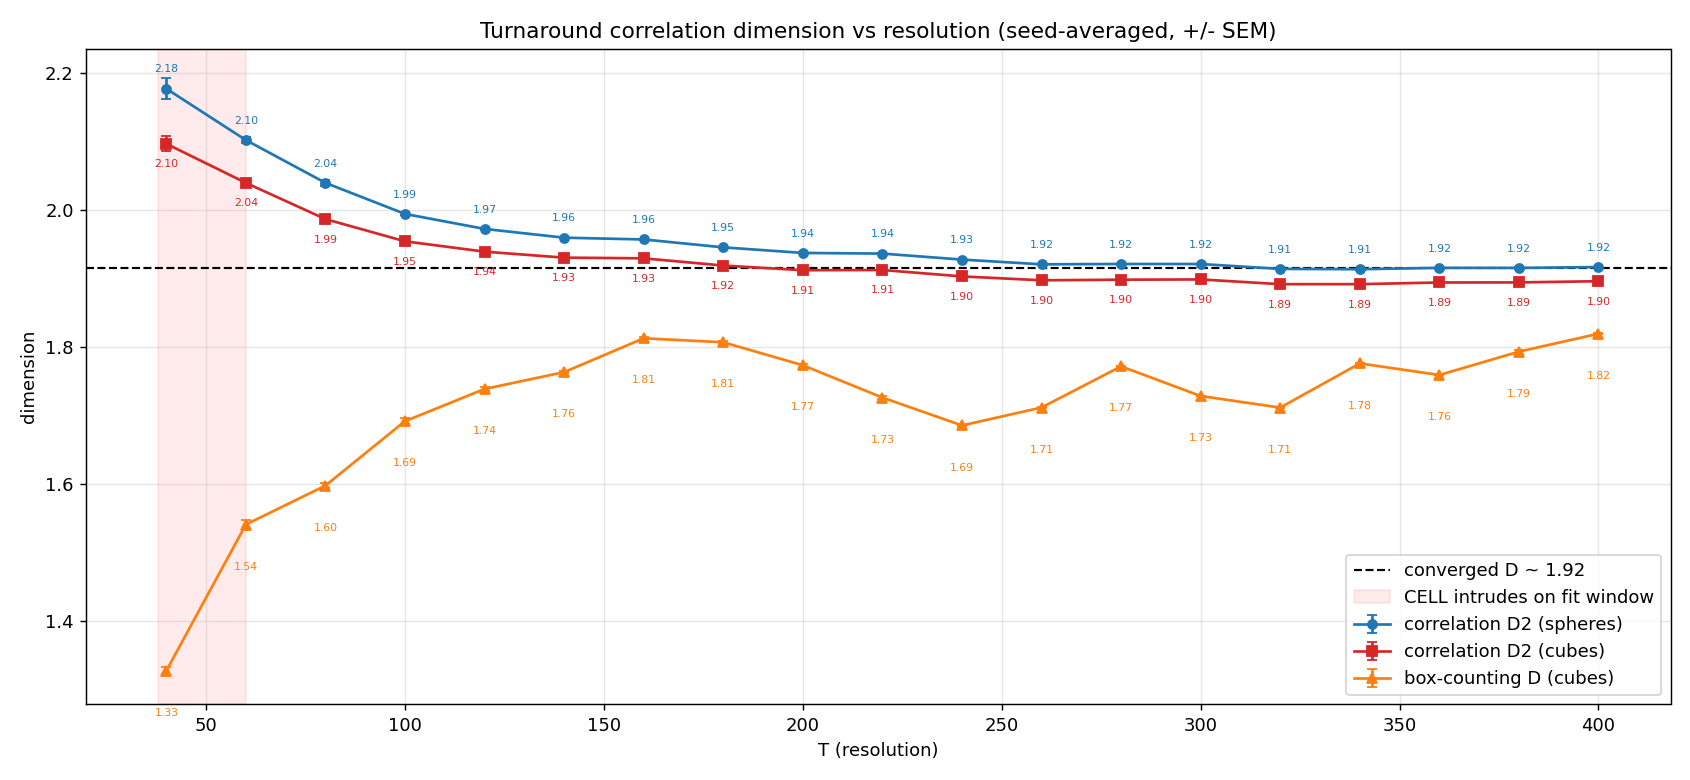
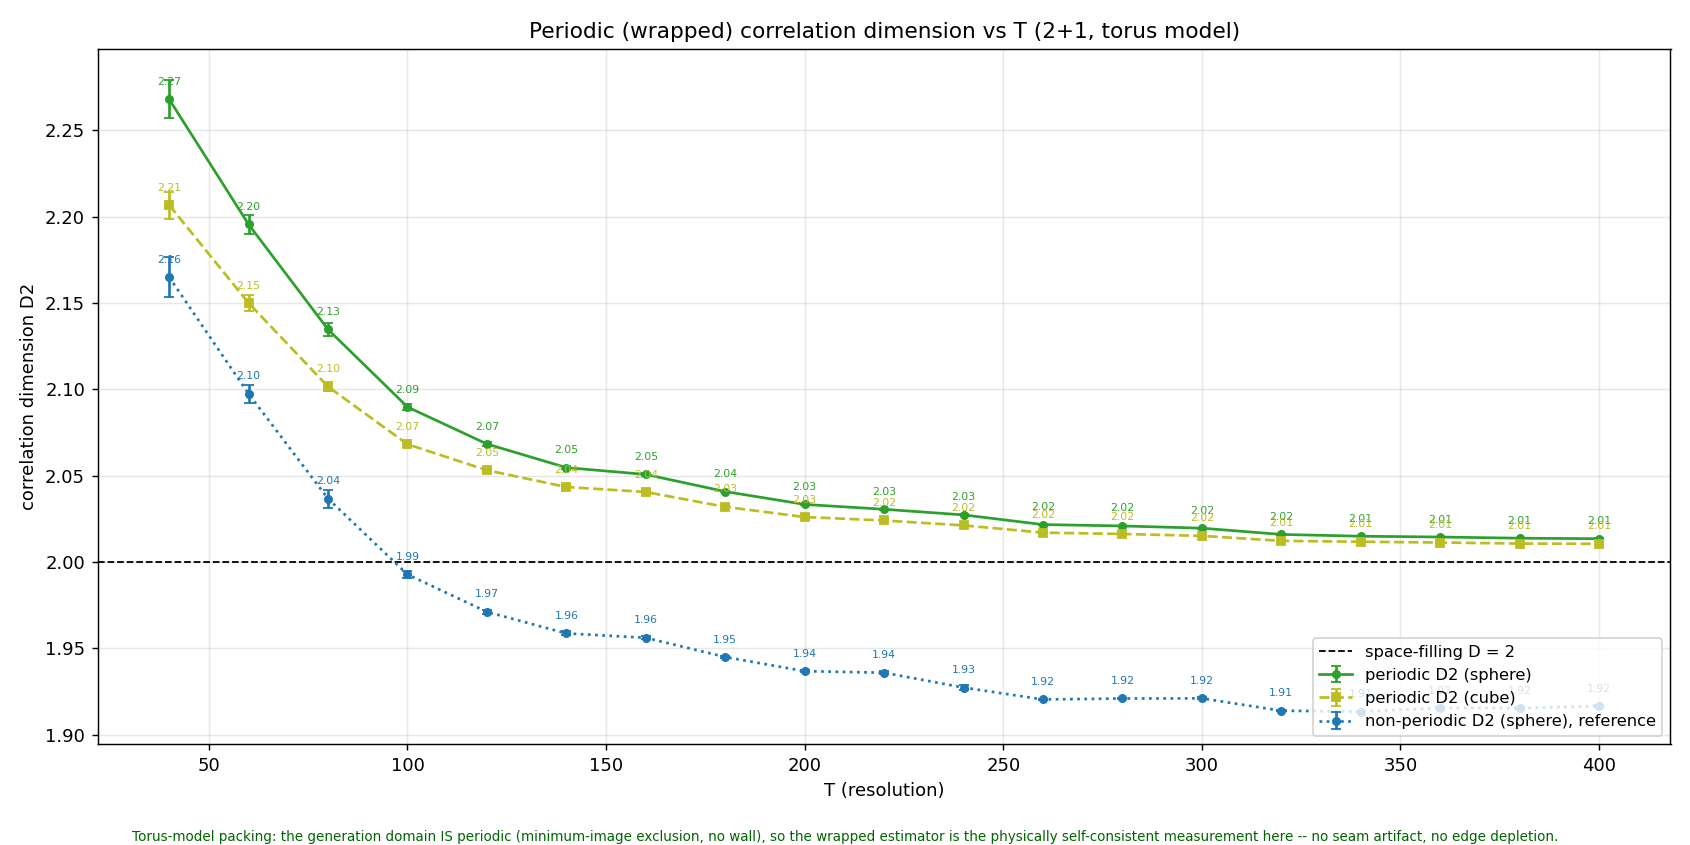
Lab notes: 3+1 phase results; correct the D2 entry to the wrapped estimator
3+1 entry: count exponent 2.273/2.331 (vs 2.282/2.328 no-phase), jam
prefactor +6.9% at T=200, wrapped D2 3.019/3.010 -- homogeneity
survives phases. The earlier D2 paragraph mislabelled the braidlab
report's non-periodic numbers (1.91x) as wrapped; entry now presents
them as the boundary artifact and adds the true wrapped measurement
(2.03 both variants), with figures regenerated from
analyze_periodic_corrdim.

diff --git a/docs/lab-notes/2026-07-05/index.html b/docs/lab-notes/2026-07-05/index.html
@@ -79,10 +79,11 @@
     </article>
 
     <article class="entry" id="corrdim-variant-mixing">
-      <h2>Corrdim was averaging variants together; corrected D2 is phase-blind</h2>
+      <h2>Corrdim was averaging variants together; the wrapped D2 is space-filling and phase-blind</h2>
       <p class="meta">
-        Bug fix in the report path &middot; code
-        <a href="https://github.com/universe-analysis/universe-generator/commit/3b39dd2"><code>3b39dd2</code></a>
+        Bug fix in the report path + wrapped estimator generalised &middot; code
+        <a href="https://github.com/universe-analysis/universe-generator/commit/3b39dd2"><code>3b39dd2</code></a>,
+        <a href="https://github.com/universe-analysis/universe-generator/commit/bad6d88"><code>bad6d88</code></a>
       </p>
       <p>
         Caught because three different datasets returned <em>identical</em>
@@ -99,31 +100,97 @@
         landed sibling variants beside them.
       </p>
       <p>
-        With per-variant filtering, the wrapped (minimum-image) correlation
-        dimension of the turnaround slice, seed-averaged over the high-T tail:
-        <strong>1.915</strong> with phases, <strong>1.916</strong> without
-        (1e-6), and the 07-02 torus 1e-7 dataset reads <strong>1.913</strong>
-        under the same tooling &mdash; identical within error. Whatever the
-        phases rearrange along the loop, the equal-time slice geometry at the
-        turnaround does not see it.
+        A second catch followed: the <code>braidlab corrdim</code> report uses
+        the <em>non-periodic</em> estimator (unwrapped positions, open-boundary
+        distances). Its per-variant numbers &mdash; 1.915 with phases, 1.916
+        without, 1.913 for the 07-02 1e-7 set &mdash; are phase-blind but they
+        are the boundary artifact, the 2+1 sibling of the ~2.89 the 07-02 notes
+        flagged in 3+1. The physical measurement is the wrapped (minimum-image)
+        estimator, so <code>analyze_periodic_corrdim</code> grew
+        <code>--dim 2|3</code> and a variant <code>--suffix</code> filter.
+        Wrapped, seed-averaged over T &ge; 100: <strong>D2 = 2.032 (sphere) /
+        2.025 (cube)</strong> with phases, <strong>2.033 / 2.026</strong>
+        without &mdash; the 2+1 matter slices are space-filling, the
+        probe-shape gap collapses, and the 07-02 exact-homogeneity result
+        extends to 2+1 and survives the phase degrees of freedom. The
+        non-periodic reference on the same clouds reads 1.93 &mdash; the
+        artifact, reproduced on demand.
       </p>
       <figure class="plot">
         <img src="periodic_corrdim_2d_phase.png"
-             alt="Wrapped correlation dimension vs T for the 2+1 torus+phase dataset: sphere and cube estimators converge to ~1.92 by T=400." />
+             alt="Wrapped correlation dimension vs T for the 2+1 torus+phase dataset: periodic sphere and cube estimators sit on the space-filling D=2 line while the non-periodic reference reads ~1.93." />
         <figcaption>
-          Wrapped-estimator convergence, 2+1 torus with phases (8 seeds per T).
-          Sphere and cube probes converge together; the box-count column stays
-          noisy as usual.
+          Wrapped correlation dimension vs T, 2+1 torus with phases (8 seeds
+          per T): periodic sphere/cube on the D = 2 line, non-periodic
+          reference below &mdash; the boundary artifact made visible.
         </figcaption>
       </figure>
       <figure class="plot">
         <img src="periodic_corrdim_2d_nophase.png"
-             alt="Wrapped correlation dimension vs T for the 2+1 torus no-phase 1e-6 dataset: indistinguishable from the phase version, converging to ~1.92." />
+             alt="Wrapped correlation dimension vs T for the 2+1 torus no-phase 1e-6 dataset: indistinguishable from the phase version, on the D=2 line." />
         <figcaption>
           Same measurement, no-phase baseline at the same cutoff &mdash;
           indistinguishable from the phased dataset point by point.
         </figcaption>
       </figure>
+    </article>
+
+    <article class="entry" id="phase-3d-results">
+      <h2>3+1 with phases: exponent and homogeneity unchanged, jam +7%</h2>
+      <p class="meta">
+        Campaign <code>torus3d_phase_e6</code> (95 jobs, deep-thought +
+        mother + kitt) &middot; code
+        <a href="https://github.com/universe-analysis/universe-generator/commit/88dd0f2"><code>88dd0f2</code></a>,
+        <a href="https://github.com/universe-analysis/universe-generator/commit/bad6d88"><code>bad6d88</code></a>
+      </p>
+      <p>
+        The 3+1 phase campaign landed (same grid as <code>torus3d_e6</code>:
+        T = 20&ndash;200 step 10, 5 seeds, 1e-6). The 2+1 picture repeats in
+        every particular:
+      </p>
+      <ul>
+        <li>Count exponent: <strong>2.273 &plusmn; 0.003</strong> full ladder /
+            <strong>2.331 &plusmn; 0.003</strong> for T &ge; 100, vs
+            2.282 / 2.328 without phases &mdash; unchanged. Notably the phased
+            ladder is <em>cleaner</em> (local-slope scatter 0.066 vs 0.114),
+            and its high-T half sits right at the 2.33 the 07-02 caveat
+            suspected was the converged no-phase value.</li>
+        <li>Jam prefactor: &lang;N_sat&rang; = 158,840 vs 148,606 at T = 200
+            (<strong>+6.9%</strong>) &mdash; the same more-packing-freedom
+            effect as 2+1, about twice the size.</li>
+        <li>Wrapped D2 (T &ge; 100 mean): <strong>3.019 (sphere) / 3.010
+            (cube)</strong> with phases vs 3.021 / 3.011 without; non-periodic
+            reference ~2.89 on both. Exact homogeneity survives the phases.</li>
+      </ul>
+      <figure class="plot">
+        <img src="jam_scaling_phase3d.png"
+             alt="Jam count vs T with the 3+1 torus+phase ladder added: it runs parallel to the no-phase torus ladder at slope ~2.28-2.33, offset a few percent above it." />
+        <figcaption>
+          All ladders with the 3+1 torus+phase dataset (pink) added: parallel
+          to the no-phase torus (red), a constant few-percent offset above it.
+          Lower panel: the phased local slope is the flattest 3+1 trace on the
+          chart.
+        </figcaption>
+      </figure>
+      <figure class="plot">
+        <img src="periodic_corrdim_3d_phase.png"
+             alt="Wrapped correlation dimension vs T for the 3+1 torus+phase dataset: periodic sphere and cube on the space-filling D=3 line, non-periodic reference at ~2.89." />
+        <figcaption>
+          Wrapped correlation dimension vs T, 3+1 torus with phases: periodic
+          sphere/cube descend onto the space-filling D = 3 line with the
+          probe-shape gap collapsed, exactly as the no-phase torus did on
+          07-02.
+        </figcaption>
+      </figure>
+      <p>
+        Takeaway, both dimensions now in: the phase degrees of freedom change
+        <em>how much</em> packs (+2.8% in 2+1, +6.9% in 3+1 at the top of the
+        ladder) but not <em>how packing scales</em> (count exponents unchanged)
+        and not the slice geometry (wrapped D2 stays space-filling). The
+        structure of the model still lives entirely in the packing-number
+        exponent &mdash; and the phased 3+1 ladder&rsquo;s flatness firms up
+        2.33 as the converged 3+1 torus exponent.
+      </p>
     </article>
 
     <!-- NEW ENTRIES APPEND ABOVE THIS LINE -->

diff --git a/docs/lab-notes/index.html b/docs/lab-notes/index.html
@@ -22,12 +22,14 @@
     <a class="day" href="2026-07-05/">
       <div class="date">2026-07-05</div>
       <div class="summary">
-        The phase schema (engine <code>--phase</code>) reaches the fleet: in
-        2+1 the count exponent is unchanged (1.396 vs 1.382 at matched 1e-6
-        cutoff) and the wrapped turnaround D2 is phase-blind (1.915 vs 1.916);
-        phases only nudge the jam prefactor (+2.8% at T = 400). Plus a corrdim
-        report fix: variant dumps sharing a directory were being averaged
-        together. 3+1 phase campaign still running.
+        The phase schema (engine <code>--phase</code>) reaches the fleet, both
+        dimensions: count exponents unchanged (2+1: 1.396 vs 1.382; 3+1: 2.273
+        vs 2.282 at matched 1e-6 cutoff), wrapped D2 stays space-filling with
+        phases (2.03 in 2+1, 3.02 in 3+1), and phases only raise the jam
+        prefactor (+2.8% / +6.9%). Plus two corrdim report catches: variant
+        dumps sharing a directory were averaged together, and the CLI report
+        is the non-periodic estimator (its 1.92 / 2.89 are the boundary
+        artifact).
       </div>
     </a>
 